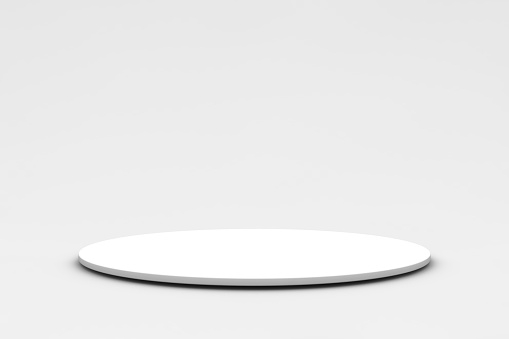
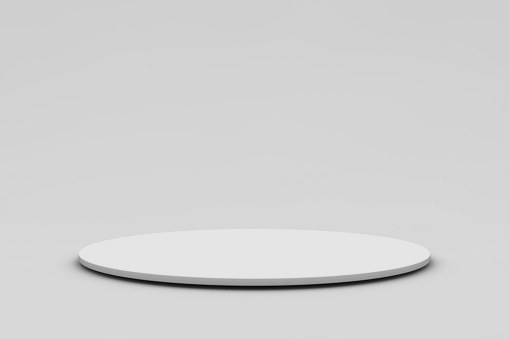
starterPage, homePage hátterének sőtétítése és helyesírási hibák javítása

diff --git a/view/starterPage.html b/view/starterPage.html
@@ -22,10 +22,10 @@
                 <div class="row">
                     <div class="col-12">
                         <div data-aos="fade-up" data-aos-delay="500">
-                            <h3>Welocome on Car Rent</h3>
+                            <h3>Wellcome to Car Rent</h3>
                         </div>
                         <div data-aos="fade-up" data-aos-delay="600">
-                            <p id="home-p">Easiest way to rent your personal car</p>
+                            <p id="home-p">Easiest way to rent your car</p>
                         </div>
                         <div data-aos="fade-up" data-aos-delay="700">
                             <a href="#login" id="login-btn">Login</a>
